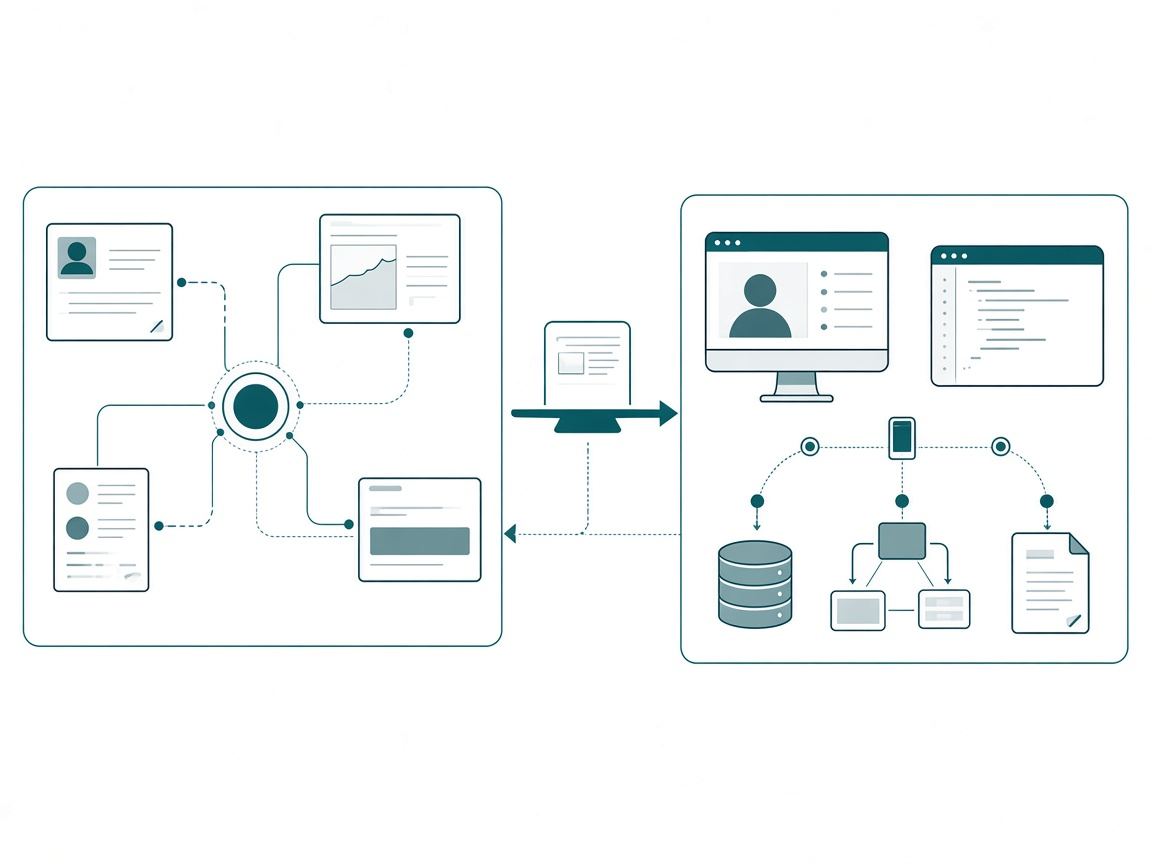
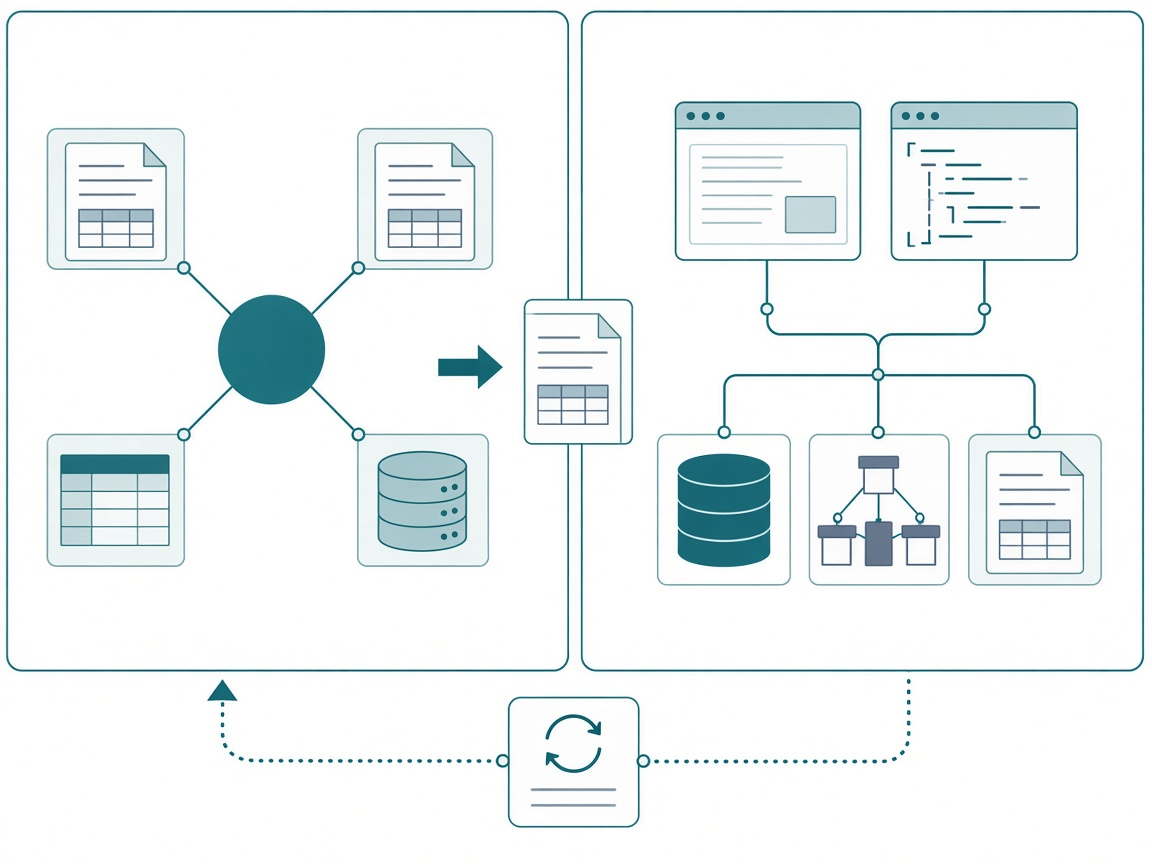
Harness post: drop hook and series membership, add image captions, tighter architecture diagram

Changed region(s): [[0.0, 0.0, 1.0, 0.9688], [0.3438, 0.375, 0.375, 0.4062]]

diff --git a/src/content/blog/published/2026-09/2026-09-25-context-harness-execution-harness.md b/src/content/blog/published/2026-09/2026-09-25-context-harness-execution-harness.md
@@ -12,11 +12,6 @@ tags:
   - microsoft-fabric
   - power-bi
   - claude
-series:
-  id: stop-re-prompting
-  title: "Stop Re-Prompting"
-  part: 5
-  partTitle: "Two Harnesses, One Loop"
 source:
   episode: 566
   title: "Agentic Dev of PBI Reports"
@@ -25,15 +20,16 @@ source:
   transcript: "transcripts/ep-566.txt"
 ---
 
-This week at the [Chicago Fabric / Power BI User Group](https://www.meetup.com/chicagolandpowerbi/events/315787998/), I asked a room full of Power BI and Fabric people who had pasted the same project context into a chat more than three times that week. I won't guess at the hand count. A year ago, mine would have been up.
-
 You know the routine. You open a chat, paste the background, and explain the project again. You copy the code out, paste it into a notebook, and hope. The next day the agent has no memory of yesterday, so you do it all over. The answers sound right the whole time, and nothing warns you when they aren't.
 
-I want a loop, and a loop needs two harnesses. The **context harness** is where the project's knowledge lives and gets refined. The **execution harness** is where the work happens. Earlier parts of this series covered the pieces one at a time: [why your second brain should write the instructions](/2026/07/20/stop-re-prompting-second-brain-agent-instructions/), the [hub](/2026/07/29/anatomy-of-a-project-hub/), the [assistants](/2026/08/03/meet-my-assistants/), and the [MCP execution session](/2026/08/05/inside-an-mcp-execution-session/). This post puts them in one picture (it's the talk I gave that night, written down), because the pieces only make sense once you see what each harness is FOR.
+I want a loop, and a loop needs two harnesses. The **context harness** is where the project's knowledge lives and gets refined. The **execution harness** is where the work happens. I've written about the pieces one at a time in the [Stop Re-Prompting](/2026/07/20/stop-re-prompting-second-brain-agent-instructions/) series: the [hub](/2026/07/29/anatomy-of-a-project-hub/), the [assistants](/2026/08/03/meet-my-assistants/), and the [MCP execution session](/2026/08/05/inside-an-mcp-execution-session/). This post puts them in one picture. It's the talk I gave at the [Chicago Fabric / Power BI User Group](https://www.meetup.com/chicagolandpowerbi/events/315787998/) this week, written down, because the pieces only make sense once you see what each harness is FOR.
 
 Here's a number that surprises people: about **80% of my agentic development time goes into the context harness**. The sessions and the prompts share the other 20%.
 
-![Two harnesses side by side: a context harness on the left with a project hub and related pages, an execution harness on the right with two workbenches, and MCP connectors reaching into Fabric and Power BI, joined by a loop](/images/2026/09/context-harness-execution-harness-banner.png)
+<figure>
+  <img src="/images/2026/09/context-harness-execution-harness-banner.png" alt="Two harnesses side by side: a context harness on the left with a project hub and related pages, an execution harness on the right with two workbenches, and MCP connectors reaching into Fabric and Power BI, joined by a loop" loading="lazy" />
+  <figcaption>The two harnesses: context on the left, execution on the right, and the recap that closes the loop.</figcaption>
+</figure>
 
 ## Model, harness, context
 
@@ -61,7 +57,10 @@ The execution harness reaches Fabric and Power BI through MCP servers. The Notio
 
 Context goes in, work comes out, and the recap goes back in. Every session starts at the hub and reports to the hub.
 
-![The context harness on the left holding a hub and its related pages, an arrow carrying an instructions page into the execution harness on the right, MCP connector nodes reaching from the execution harness into a lakehouse and a semantic model, and a dotted return arrow carrying a recap back to the hub](/images/2026/09/context-harness-execution-harness-architecture.png)
+<figure>
+  <img src="/images/2026/09/context-harness-execution-harness-architecture.png" alt="The context harness on the left holding a hub and its related pages, an arrow carrying an instructions page into the execution harness on the right, MCP connector nodes reaching from the execution harness into a lakehouse and a semantic model, and a dotted return arrow carrying a recap back to the hub" loading="lazy" />
+  <figcaption>Context goes in as an instructions page, work comes out through the MCP servers, and the recap goes back to the hub.</figcaption>
+</figure>
 
 Here's the payoff. Once the context lives in the hub and out of chat history, it stops mattering which tool ran yesterday's session. Cowork or Cursor, this model or that one, they all read the same page and write back to the same place. That's why I can switch tools as fast as this space moves and keep everything the project knows.
 
@@ -69,13 +68,16 @@ Here's the payoff. Once the context lives in the hub and out of chat history, it
 
 The closest description I have for this is a recipe. It's too early for anyone to hand you an install-this-run-that setup. You can get the ingredients right and have them prepped before a session starts, and that prep is the context harness.
 
-The basics are in earlier posts. [The project is the hub](/2026/07/29/anatomy-of-a-project-hub/) and everything else is a relation, so an agent can follow the links between pages to find an answer. Every milestone page uses the same skeleton, so the agent always knows where each section is. And [the hub writes the instructions](/2026/08/05/inside-an-mcp-execution-session/): role, #1 priority, do-not-touch list, read-first table, report-back.
+The basics are in the series. [The project is the hub](/2026/07/29/anatomy-of-a-project-hub/) and everything else is a relation, so an agent can follow the links between pages to find an answer. Every milestone page uses the same skeleton, so the agent always knows where each section is. And [the hub writes the instructions](/2026/08/05/inside-an-mcp-execution-session/): role, #1 priority, do-not-touch list, read-first table, report-back.
 
 The piece I haven't shown yet is the one that holds a big project together: the **master sequence page**.
 
 A real project doesn't have one instructions page. Northside Baseball has dozens, and fifteen new ones were written in a single day this week: API discovery, notebooks, the semantic model build, Desktop Bridge report design, the warehouse path, orchestration. If I have to remember which one is next, I'm the bottleneck again. So my agents keep one page that sequences all the others and tracks where each one stands. Here's the top of the real one in Notion:
 
-![The top of the Northside master sequence page in Notion: a blue Current Phase callout listing what's done, the Sep 24 workspace gap, three ordered focus steps, and a do-not-start line, followed by the status legend for active, complete, paused, deferred, and planned pages](/images/2026/09/context-harness-master-sequence-current-phase.png)
+<figure>
+  <img src="/images/2026/09/context-harness-master-sequence-current-phase.png" alt="The top of the Northside master sequence page in Notion: a blue Current Phase callout listing what&#x27;s done, the Sep 24 workspace gap, three ordered focus steps, and a do-not-start line, followed by the status legend for active, complete, paused, deferred, and planned pages" loading="lazy" />
+  <figcaption>The top of the Northside master sequence: the dated Current Phase callout and the status legend every session reads first.</figcaption>
+</figure>
 
 And here's a trimmed slice of the same page as text, so you can copy the shape:
 
@@ -129,17 +131,26 @@ The **Current Phase callout** is a dated briefing: what's done, what's broken, a
 
 Further down, the sequence itself. Every phase names the earlier engagement it's patterned on, every item links to its instructions page, and every closed item says when it closed and where the leftover work went:
 
-![The Instruction Page Sequence section of the Northside master sequence: Phase 0 Discovery and Data Platform and Phase 1 Semantic Model with completed and planned items, each linking to its instructions page with close-out notes, and Phase 2 Report Design with the Desktop Bridge page marked active](/images/2026/09/context-harness-master-sequence-phases.png)
+<figure>
+  <img src="/images/2026/09/context-harness-master-sequence-phases.png" alt="The Instruction Page Sequence section of the Northside master sequence: Phase 0 Discovery and Data Platform and Phase 1 Semantic Model with completed and planned items, each linking to its instructions page with close-out notes, and Phase 2 Report Design with the Desktop Bridge page marked active" loading="lazy" />
+  <figcaption>The Instruction Page Sequence. Each item links to its instructions page and says when it closed and where the leftover work went.</figcaption>
+</figure>
 
 Inside the active phase, the work is split into waves. Wave A runs now. Its last two items are PLANNED, so no session touches them until their pages exist. Wave B is PAUSED until Wave A is approved, and every item in it is scoped down to the tables it will use:
 
-![The Wave A and Wave B lists from the Northside master sequence: three active Wave A ticketing report pages with their specs, two planned Wave A items for an audit log page and a calculation reference document, and Wave B Operations and Event P&L marked paused until Wave A is approved, with four planned items naming the gold tables and page specs each one needs](/images/2026/09/context-harness-master-sequence-waves.png)
+<figure>
+  <img src="/images/2026/09/context-harness-master-sequence-waves.png" alt="The Wave A and Wave B lists from the Northside master sequence: three active Wave A ticketing report pages with their specs, two planned Wave A items for an audit log page and a calculation reference document, and Wave B Operations and Event P&amp;L marked paused until Wave A is approved, with four planned items naming the gold tables and page specs each one needs" loading="lazy" />
+  <figcaption>Waves inside the active phase. PLANNED items wait for their pages, and Wave B waits for Wave A's sign-off.</figcaption>
+</figure>
 
 My Fabric advisor agent writes the technical body of each new page from a context brief Polpette puts together, and the page only goes into the sequence after review. That's [my assistants](/2026/08/03/meet-my-assistants/) working before a session ever starts, and it's the same idea as [building the thing that creates the thing](/2026/09/16/build-the-thing-that-creates-the-thing/): I spend my time on the agents that write these pages, not on the pages.
 
 Each instructions page also says where it sits in the chain. This diagram lives on the Desktop Bridge page, so the report agent knows whose output it's reading and who reads its output:
 
-![A flow diagram from the Desktop Bridge instructions page: the Fabric Notebooks pipeline agent builds bronze, silver, and gold into the NBC Data Dictionary and Gold Definition, the Semantic Model Builder reads source tables and writes the model back to Notion, and the Desktop Bridge and Report Design agent reads columns and measures to design visuals and screenshot report pages](/images/2026/09/context-harness-agent-flow.png)
+<figure>
+  <img src="/images/2026/09/context-harness-agent-flow.png" alt="A flow diagram from the Desktop Bridge instructions page: the Fabric Notebooks pipeline agent builds bronze, silver, and gold into the NBC Data Dictionary and Gold Definition, the Semantic Model Builder reads source tables and writes the model back to Notion, and the Desktop Bridge and Report Design agent reads columns and measures to design visuals and screenshot report pages" loading="lazy" />
+  <figcaption>The Agent Flow diagram on the Desktop Bridge page: whose output this agent reads, and who reads its output.</figcaption>
+</figure>
 
 The kickoff comes from the context harness too. By the time I open a session, the instructions were already built somewhere else. Mid-session corrections can be short ("do this one, not that one"), but the first line always points at this page:
 
@@ -174,15 +185,24 @@ I apply two rules from that block everywhere. The instructions page decides whic
 
 Here's what that looks like on the page the master sequence points at right now, the Desktop Bridge report design instructions. A dated status callout, a one-paragraph role, and exactly three tools:
 
-![The top of the Desktop Bridge and Report Design instructions page in Notion: a green status callout marking it active as of Sep 24 with the model state and scope, a Purpose section defining the agent as a report design agent, and a list of its three tools, the Power BI Desktop Bridge, the Report Authoring Skill, and the Notion MCP server](/images/2026/09/context-harness-desktop-bridge-instructions.png)
+<figure>
+  <img src="/images/2026/09/context-harness-desktop-bridge-instructions.png" alt="The top of the Desktop Bridge and Report Design instructions page in Notion: a green status callout marking it active as of Sep 24 with the model state and scope, a Purpose section defining the agent as a report design agent, and a list of its three tools, the Power BI Desktop Bridge, the Report Authoring Skill, and the Notion MCP server" loading="lazy" />
+  <figcaption>The active instructions page: a dated status callout, a one-paragraph role, and exactly three tools.</figcaption>
+</figure>
 
 Once the page has done its job, the execute step on report work is its own small loop: read Notion, edit the PBIR files, reload Desktop, screenshot, review, and iterate until it's approved. (Where the spec for that loop comes from is in [Design the Report From the Meeting You Already Had](/2026/08/19/design-the-report-from-the-meeting-you-already-had/).)
 
-![The Core Workflow Loop diagram from the Desktop Bridge instructions: read Notion requirements and schema, edit PBIR files, reload Desktop, screenshot pages, review screenshots, then iterate back to editing or finish when approved](/images/2026/09/context-harness-report-workflow-loop.png)
+<figure>
+  <img src="/images/2026/09/context-harness-report-workflow-loop.png" alt="The Core Workflow Loop diagram from the Desktop Bridge instructions: read Notion requirements and schema, edit PBIR files, reload Desktop, screenshot pages, review screenshots, then iterate back to editing or finish when approved" loading="lazy" />
+  <figcaption>The execute step for report work: edit the PBIR files, reload Desktop, screenshot, review, and iterate.</figcaption>
+</figure>
 
 This is also where context compounds. The same page carries a critical-warnings block, lessons learned on earlier engagements, written down so no future session has to learn them the hard way:
 
-![The Critical Warnings section of the Desktop Bridge instructions: seven numbered warnings learned on earlier engagements, including that MCP model changes never update Desktop's Power Query layer, that multi-value card visuals render empty, and to never save in Desktop between an agent write-back and the verify run](/images/2026/09/context-harness-desktop-bridge-warnings.png)
+<figure>
+  <img src="/images/2026/09/context-harness-desktop-bridge-warnings.png" alt="The Critical Warnings section of the Desktop Bridge instructions: seven numbered warnings learned on earlier engagements, including that MCP model changes never update Desktop&#x27;s Power Query layer, that multi-value card visuals render empty, and to never save in Desktop between an agent write-back and the verify run" loading="lazy" />
+  <figcaption>Lessons from earlier engagements, written into the page so no future session has to relearn them.</figcaption>
+</figure>
 
 Can you skip the context harness and start prompting Claude Code against a PBIP? Sure, and you'll get something. If you want real gains, set up the environment first. Canvas speed was never my bottleneck. The visual display is maybe 30% of a good report. The rest is data, evaluation context, and knowing what the page has to answer, and all of that is context.
 
@@ -190,7 +210,10 @@ Can you skip the context harness and start prompting Claude Code against a PBIP?
 
 Every session I run goes through these four steps around the hub.
 
-![A circular loop of four nodes around a central project hub: an instructions page, a magnifying-glass survey, a build step reaching into a lakehouse and a semantic model, and a recap document flowing back into the hub](/images/2026/09/context-harness-execution-harness-loop.png)
+<figure>
+  <img src="/images/2026/09/context-harness-execution-harness-loop.png" alt="A circular loop of four nodes around a central project hub: an instructions page, a magnifying-glass survey, a build step reaching into a lakehouse and a semantic model, and a recap document flowing back into the hub" loading="lazy" />
+  <figcaption>Every session runs the same four steps around the hub: instruct, recon, execute, write back.</figcaption>
+</figure>
 
 **1. Instruct.** The hub writes today's job: role, #1 priority, do-not-touch list, read-first table. The master sequence says which page that is. Nobody typed the priority into a prompt.
 
@@ -198,17 +221,26 @@ Every session I run goes through these four steps around the hub.
 
 **3. Execute.** The session builds over MCP and has to prove its work. The master sequence carries the numbers every session must hit, each one with the page it came from:
 
-![The Validation Benchmarks table at the bottom of the Northside master sequence, listing expected values and their sources: 71 lakehouse tables and 32.3 million rows, 75 foreign-key and 23 grain checks with zero orphans, 7,271,674 FactTicketSales rows, $236,175,062 gross ticket revenue, the no-filter anchor game, STH account counts, the season margin range, and the 9-table semantic model v1](/images/2026/09/context-harness-validation-benchmarks.png)
+<figure>
+  <img src="/images/2026/09/context-harness-validation-benchmarks.png" alt="The Validation Benchmarks table at the bottom of the Northside master sequence, listing expected values and their sources: 71 lakehouse tables and 32.3 million rows, 75 foreign-key and 23 grain checks with zero orphans, 7,271,674 FactTicketSales rows, $236,175,062 gross ticket revenue, the no-filter anchor game, STH account counts, the season margin range, and the 9-table semantic model v1" loading="lazy" />
+  <figcaption>The expected values, each with its source, written down before the build.</figcaption>
+</figure>
 
 Those expected values were written down BEFORE the build, so "done" means the numbers match. On the notebook side, the same rule is a validation cell the notebook has to pass. No cell, not done. (If you're wondering who checks all of this, I made that case in [Don't Hire a Senior to QA the Agent](/2026/09/14/dont-hire-a-senior-to-qa-the-agent/).)
 
 **4. Write back.** The dated recap lands on the hub and the deliverables flip. People skip this step, and it's the one that makes the next session better. It shows up in two places. Every instructions page ends its session workflow with it:
 
-![The Session Workflow section of the Desktop Bridge instructions: nine numbered steps from reading Notion pages and checking Desktop state through design, reload, screenshot, validate, and iterate, ending with step 9, write back, update status on this page and the master sequence page in Notion](/images/2026/09/context-harness-desktop-bridge-session-workflow.png)
+<figure>
+  <img src="/images/2026/09/context-harness-desktop-bridge-session-workflow.png" alt="The Session Workflow section of the Desktop Bridge instructions: nine numbered steps from reading Notion pages and checking Desktop state through design, reload, screenshot, validate, and iterate, ending with step 9, write back, update status on this page and the master sequence page in Notion" loading="lazy" />
+  <figcaption>Every instructions page ends its session workflow with the write-back.</figcaption>
+</figure>
 
 And the master sequence spells out exactly what "write back" means:
 
-![The Context Write-Back Protocol on the Northside master sequence: six numbered steps covering the dated write-back on the instruction page, flipping the status on the master sequence, updating the Data Resource Index, ticking milestone deliverables, flagging discrepancies without overwriting silently, and stopping at scope edges](/images/2026/09/context-harness-write-back-protocol.png)
+<figure>
+  <img src="/images/2026/09/context-harness-write-back-protocol.png" alt="The Context Write-Back Protocol on the Northside master sequence: six numbered steps covering the dated write-back on the instruction page, flipping the status on the master sequence, updating the Data Resource Index, ticking milestone deliverables, flagging discrepancies without overwriting silently, and stopping at scope edges" loading="lazy" />
+  <figcaption>What "write back" means on Northside, step by step.</figcaption>
+</figure>
 
 Steps 5 and 6 are my favorites. "Don't overwrite silently" keeps the context harness honest when the execution harness finds something the docs got wrong. "Stop at scope edges" keeps a session on its one deliverable, so I don't come back to an afternoon of side work nobody reviewed.
 
@@ -249,4 +281,4 @@ And only hand the agent more work as fast as your validation can check it.
 
 Here's the question I keep coming back to. If most of the value sits in the context harness, then the context harness is the intellectual property. When I hand a Fabric project to a client, the skills and context I built for that company, plus the validation, are what keep those pipelines running. Does that belong in the handoff? I don't have a full answer yet, and I think every consultant doing this work will have to find one. My prediction: within a couple of years, the read-only survey will be the `SELECT TOP 100` of the agent era, the first thing everyone runs without thinking about it.
 
-That's the last part of this series. Thanks to everyone who came out to the [September user group](https://www.meetup.com/chicagolandpowerbi/events/315787998/) at the MTC. If you're anywhere near Chicago, next month's session is all about the Power BI and Fabric MCP servers, the execution side of this post up close. RSVP on the [Chicago Fabric / Power BI User Group](https://www.meetup.com/chicagolandpowerbi/) page. And if this sparked something, keep the conversation going with us on the Explicit Measures podcast, and subscribe at PromptingBI for more.
+Thanks to everyone who came out to the [September user group](https://www.meetup.com/chicagolandpowerbi/events/315787998/) at the MTC. If you're anywhere near Chicago, next month's session is all about the Power BI and Fabric MCP servers, the execution side of this post up close. RSVP on the [Chicago Fabric / Power BI User Group](https://www.meetup.com/chicagolandpowerbi/) page. And if this sparked something, keep the conversation going with us on the Explicit Measures podcast, and subscribe at PromptingBI for more.
